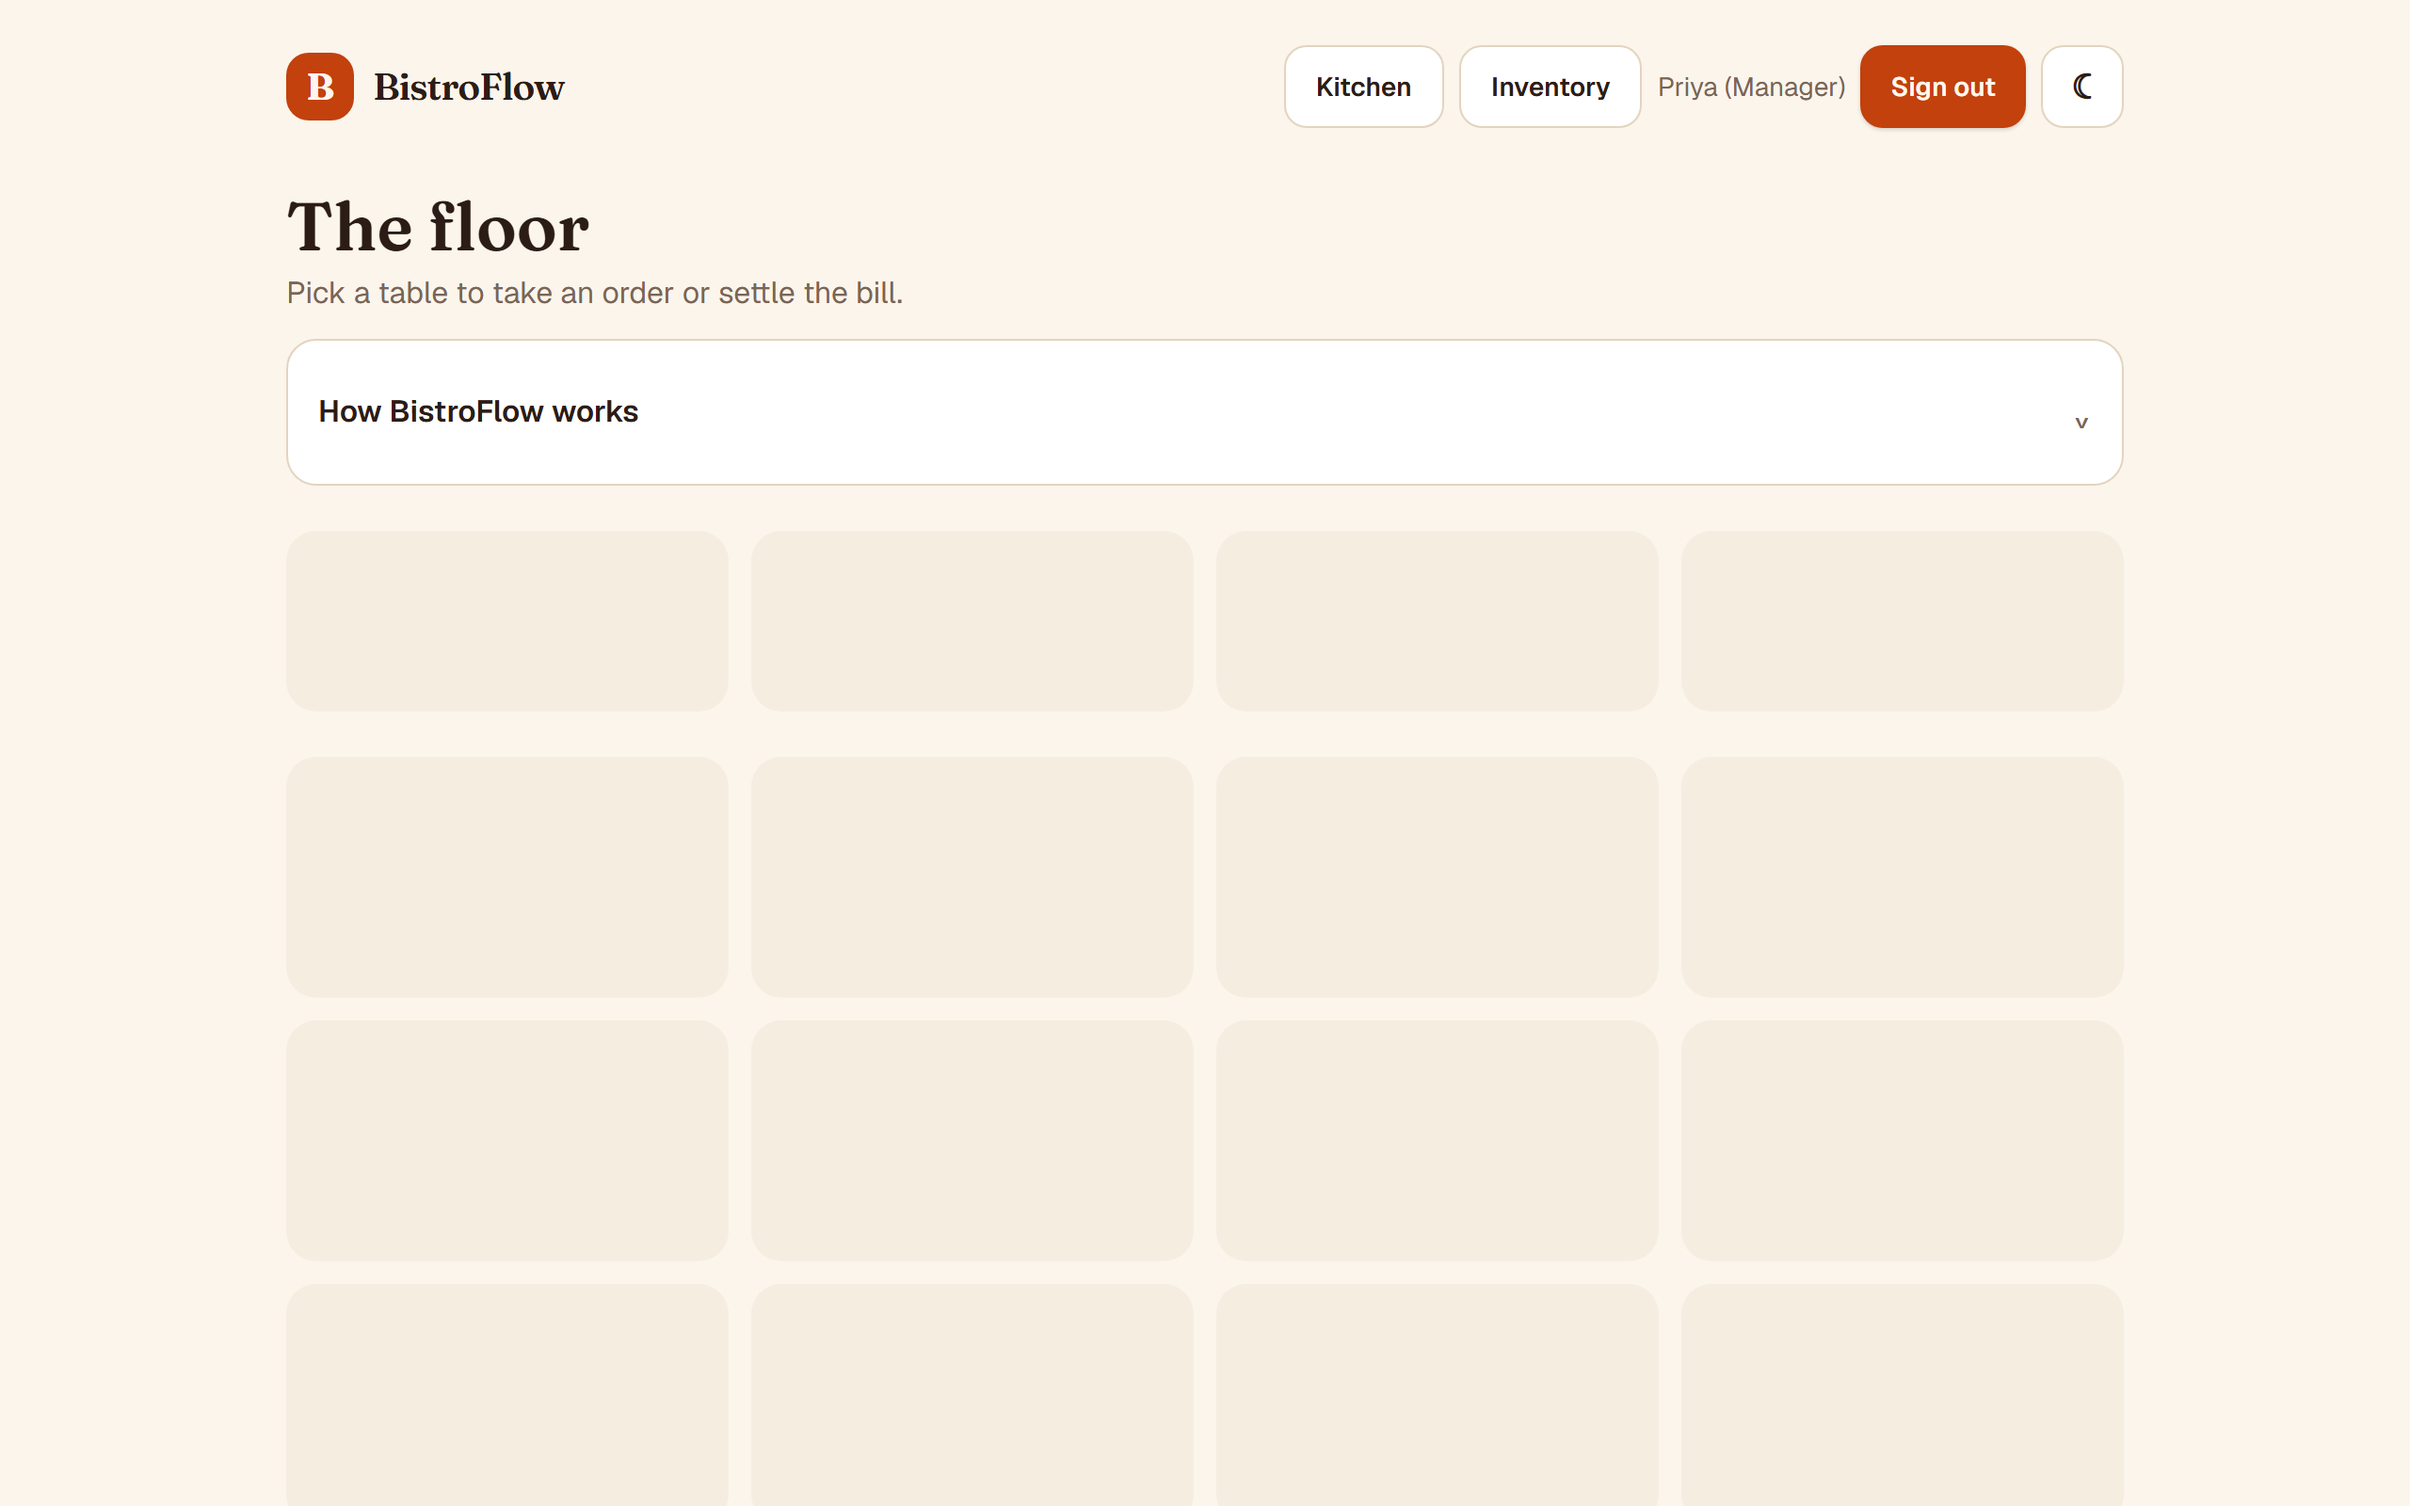
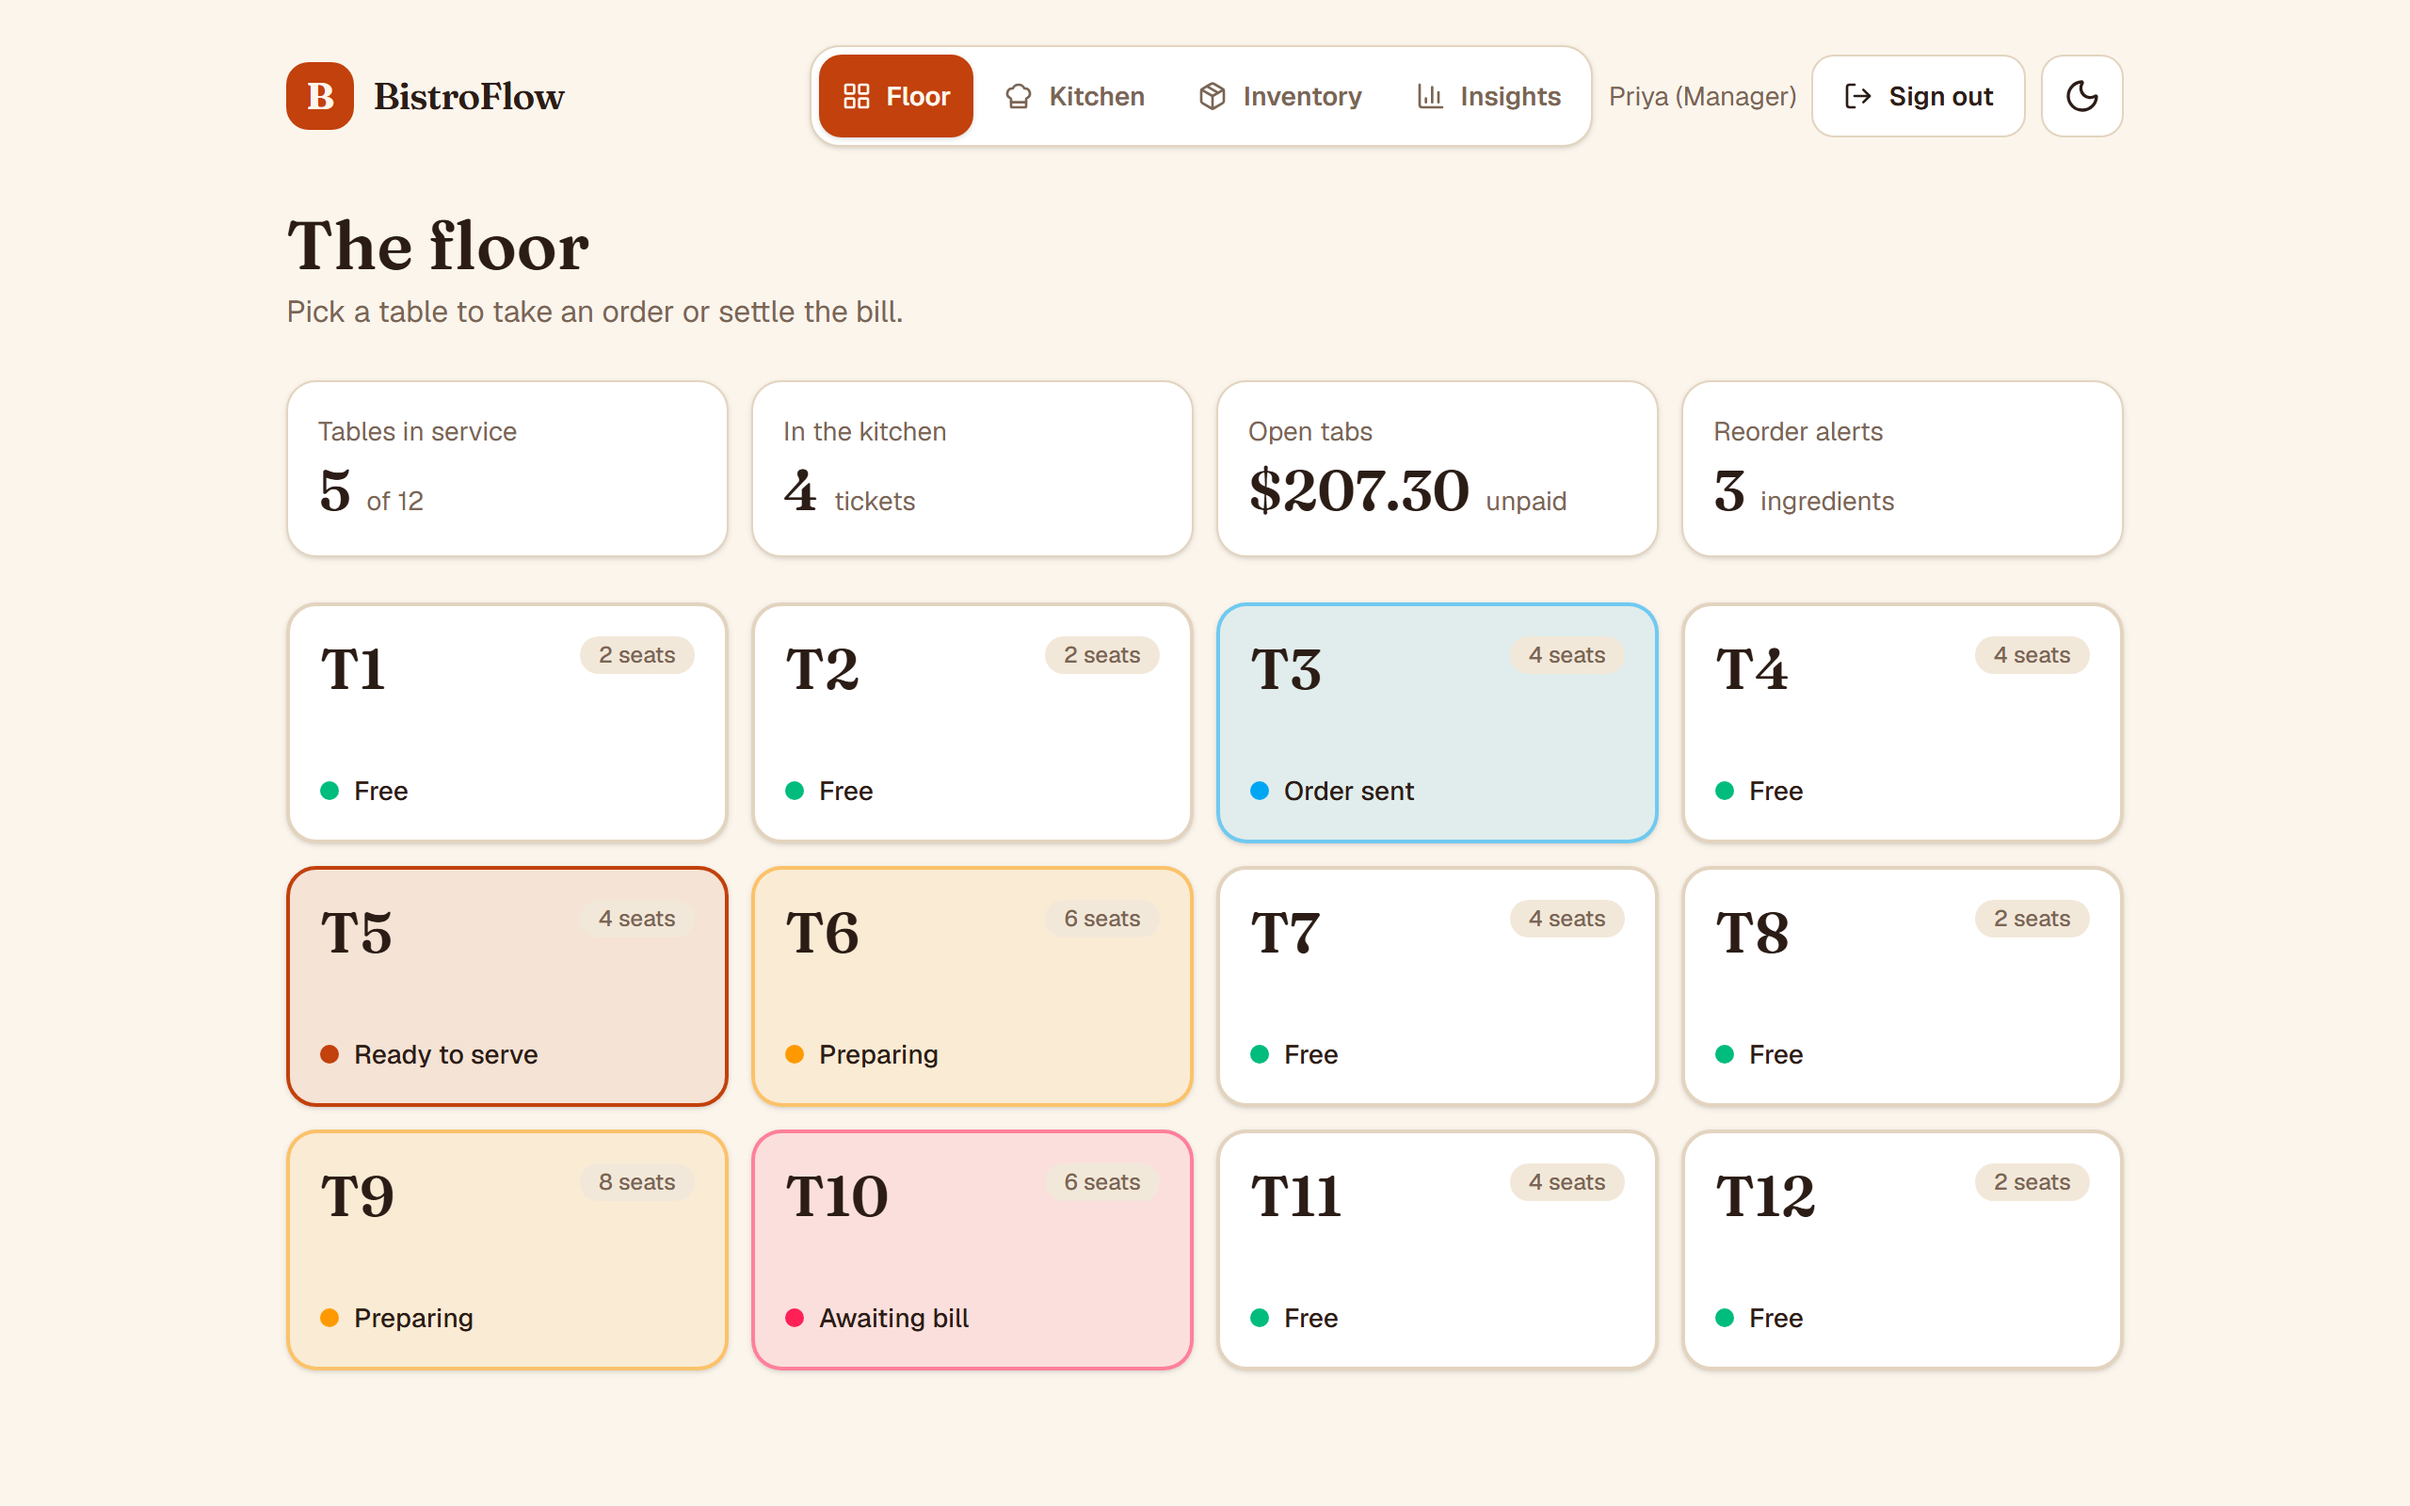
refactor: replace middleware with page-level access guards; role-aware sign-in redirects; docs refresh

diff --git a/app/floor/page.tsx b/app/floor/page.tsx
@@ -3,32 +3,12 @@ import { AppHeader } from "@/components/app-header";
 import { FloorStats, FloorStatsSkeleton } from "@/features/tables/floor-stats";
 import { TableMap, TableMapSkeleton } from "@/features/tables/table-map";
 
-export default function Home() {
+export default function FloorPage() {
   return (
     <main id="main" className="mx-auto w-full max-w-5xl flex-1 p-4 sm:p-6">
       <AppHeader current="/floor" />
       <h1 className="font-display text-3xl font-semibold sm:text-4xl">The floor</h1>
-      <p className="mt-1 text-muted">Pick a table to take an order or settle the bill.</p>
-      <details className="group mb-6 mt-3 rounded-2xl border border-line bg-surface p-4">
-        <summary className="flex min-h-11 list-none items-center justify-between gap-3 font-semibold">
-          How BistroFlow works
-          <span aria-hidden className="text-muted transition-transform group-open:rotate-180">⌄</span>
-        </summary>
-        <ol className="mt-2 grid gap-4 text-sm sm:grid-cols-3">
-          <li>
-            <p className="font-display text-lg font-semibold">1 · Order</p>
-            <p className="text-muted">Waiters take orders at the table. The menu shows what is really in stock, so nobody promises a dish the kitchen can&apos;t make.</p>
-          </li>
-          <li>
-            <p className="font-display text-lg font-semibold">2 · Cook</p>
-            <p className="text-muted">The ticket reaches the kitchen board instantly. The kitchen moves it from New to Preparing to Ready, and the waiter sees it.</p>
-          </li>
-          <li>
-            <p className="font-display text-lg font-semibold">3 · Restock</p>
-            <p className="text-muted">Every order deducts its ingredients automatically. Managers get a reorder list before anything runs out, and one tap records the delivery.</p>
-          </li>
-        </ol>
-      </details>
+      <p className="mb-6 mt-1 text-muted">Pick a table to take an order or settle the bill.</p>
       <Suspense fallback={<FloorStatsSkeleton />}>
         <FloorStats />
       </Suspense>

diff --git a/features/auth/actions.ts b/features/auth/actions.ts
@@ -1,17 +1,30 @@
 "use server";
 
+import { eq } from "drizzle-orm";
 import { AuthError } from "next-auth";
+import { z } from "zod";
 import { signIn, signOut } from "@/auth";
+import { getDb } from "@/db";
+import { staff } from "@/db/schema";
+import { homeFor } from "@/lib/permissions";
 import type { StaffRole } from "@/types";
 import { DEMO_STAFF } from "./demo-staff";
 
+/** Where this person should land after signing in, or null when the id doesn't match anyone. */
+async function homeForStaff(staffId: string): Promise<string | null> {
+  if (!z.string().uuid().safeParse(staffId).success) return null;
+  const [row] = await getDb().select({ role: staff.role }).from(staff).where(eq(staff.id, staffId)).limit(1);
+  return row ? homeFor(row.role) : null;
+}
+
 export async function login(_previous: string | null, formData: FormData): Promise<string | null> {
+  const staffId = String(formData.get("staffId") ?? "");
+  const redirectTo = await homeForStaff(staffId);
+  // An unknown id means the page was loaded before the staff list changed, not that the PIN is wrong.
+  if (!redirectTo) return "This page is out of date. Refresh it and try again.";
+
   try {
-    await signIn("credentials", {
-      staffId: formData.get("staffId"),
-      pin: formData.get("pin"),
-      redirectTo: "/", // the proxy sends kitchen staff on to /kds
-    });
+    await signIn("credentials", { staffId, pin: formData.get("pin"), redirectTo });
     return null;
   } catch (error) {
     if (error instanceof AuthError) return "That PIN is not right. Try again.";
@@ -23,7 +36,7 @@ export async function login(_previous: string | null, formData: FormData): Promi
 export async function demoLogin(role: StaffRole): Promise<void> {
   const member = DEMO_STAFF.find((s) => s.role === role);
   if (!member) return;
-  await signIn("credentials", { staffId: member.id, pin: member.pin, redirectTo: "/" });
+  await signIn("credentials", { staffId: member.id, pin: member.pin, redirectTo: homeFor(role) });
 }
 
 export async function logout(): Promise<void> {

diff --git a/lib/access.ts b/lib/access.ts
@@ -1,0 +1,23 @@
+import { redirect } from "next/navigation";
+import { auth } from "@/auth";
+import type { StaffRole } from "@/types";
+import { canAccessPath, homeFor } from "./permissions";
+
+export interface AccessUser {
+  id: string;
+  name?: string | null;
+  role: StaffRole;
+}
+
+/**
+ * Page-level authorization. Call it first in any server component that reads data: it redirects
+ * to the login screen when signed out, or to the user's own home when their role can't see the page,
+ * and it does so before any query runs. (API handlers do the same check with their own responses.)
+ */
+export async function requireAccess(pathname: string): Promise<AccessUser> {
+  const session = await auth();
+  if (!session) redirect("/login");
+  const { role } = session.user;
+  if (!canAccessPath(role, pathname)) redirect(homeFor(role));
+  return session.user;
+}

diff --git a/app/page.tsx b/app/page.tsx
@@ -1,3 +1,4 @@
+import { Suspense } from "react";
 import { DemoSection } from "@/features/landing/demo-section";
 import { Engineering } from "@/features/landing/engineering";
 import { Features } from "@/features/landing/features";
@@ -6,10 +7,14 @@ import { HowItWorks } from "@/features/landing/how-it-works";
 import { LandingFooter } from "@/features/landing/landing-footer";
 import { LandingNav } from "@/features/landing/landing-nav";
 import { Showcase } from "@/features/landing/showcase";
+import { SignedInRedirect } from "@/features/landing/signed-in-redirect";
 
 export default function LandingPage() {
   return (
     <>
+      <Suspense fallback={null}>
+        <SignedInRedirect />
+      </Suspense>
       <LandingNav />
       <main id="main" className="flex-1">
         <Hero />

diff --git a/app/login/page.tsx b/app/login/page.tsx
@@ -1,15 +1,20 @@
 import type { Metadata } from "next";
+import { redirect } from "next/navigation";
 import { connection } from "next/server";
 import { Suspense } from "react";
+import { auth } from "@/auth";
 import { BrandMark } from "@/components/brand-mark";
 import { ThemeToggle } from "@/components/theme-toggle";
 import { getStaff } from "@/features/auth/queries";
 import { LoginForm } from "@/features/auth/login-form";
+import { homeFor } from "@/lib/permissions";
 
 export const metadata: Metadata = { title: "Sign in | BistroFlow" };
 
 async function StaffLogin() {
   await connection();
+  const session = await auth();
+  if (session) redirect(homeFor(session.user.role)); // already signed in
   return <LoginForm staff={await getStaff()} />;
 }
 

diff --git a/app/kds/page.tsx b/app/kds/page.tsx
@@ -1,16 +1,16 @@
 import type { Metadata } from "next";
-import { redirect } from "next/navigation";
+import { connection } from "next/server";
 import { Suspense } from "react";
-import { auth } from "@/auth";
 import { AppHeader } from "@/components/app-header";
 import { KdsBoard } from "@/features/kds/kds-board";
+import { requireAccess } from "@/lib/access";
 
 export const metadata: Metadata = { title: "Kitchen | BistroFlow" };
 
 async function KdsForRole() {
-  const session = await auth();
-  if (!session) redirect("/login");
-  return <KdsBoard role={session.user.role} />;
+  await connection();
+  const user = await requireAccess("/kds");
+  return <KdsBoard role={user.role} />;
 }
 
 export default function KdsPage() {

diff --git a/components/app-header.tsx b/components/app-header.tsx
@@ -1,5 +1,6 @@
 import { BarChart3, ChefHat, LayoutGrid, LogOut, Package, type LucideIcon } from "lucide-react";
 import Link from "next/link";
+import { connection } from "next/server";
 import { Suspense } from "react";
 import { auth } from "@/auth";
 import { logout } from "@/features/auth/actions";
@@ -15,6 +16,7 @@ const LINKS: { href: string; label: string; icon: LucideIcon }[] = [
 ];
 
 async function SessionNav({ current }: { current: string }) {
+  await connection(); // depends on the visitor's cookies, so never prerendered
   const session = await auth();
   if (!session) return null;
   const { role, name } = session.user;

diff --git a/features/insights/insights-view.tsx b/features/insights/insights-view.tsx
@@ -1,5 +1,6 @@
 import { ArrowDownRight, ArrowUpRight, Minus } from "lucide-react";
 import { connection } from "next/server";
+import { requireAccess } from "@/lib/access";
 import { formatMoney, formatWholeMoney } from "@/lib/format";
 import { BarChart, type Bar } from "./bar-chart";
 import { getInsights } from "./queries";
@@ -60,6 +61,7 @@ function Legend() {
 
 export async function InsightsView() {
   await connection(); // live DB data: render at request time, never at build
+  await requireAccess("/insights");
   const { daily, topDishes, hours } = await getInsights();
 
   const current = totalsFor(daily, "current");

diff --git a/app/pos/[tableId]/page.tsx b/app/pos/[tableId]/page.tsx
@@ -5,9 +5,11 @@ import { z } from "zod";
 import { getTableBill } from "@/features/billing/queries";
 import { getMenu, getTable } from "@/features/menu/queries";
 import { OrderBuilder } from "@/features/pos/order-builder";
+import { requireAccess } from "@/lib/access";
 
 async function TableOrder({ params }: { params: Promise<{ tableId: string }> }) {
   await connection();
+  await requireAccess("/pos");
   const { tableId } = await params;
   if (!z.string().uuid().safeParse(tableId).success) notFound();
   const [table, menu, bill] = await Promise.all([getTable(tableId), getMenu(), getTableBill(tableId)]);

diff --git a/features/inventory/inventory-view.tsx b/features/inventory/inventory-view.tsx
@@ -1,4 +1,5 @@
 import { connection } from "next/server";
+import { requireAccess } from "@/lib/access";
 import { getInventory, type InventoryRow, type StockLevel } from "./queries";
 import { ReorderPanel } from "./reorder-panel";
 
@@ -45,6 +46,7 @@ function StockRow({ item }: { item: InventoryRow }) {
 
 export async function InventoryView() {
   await connection(); // live DB data: render at request time, never at build
+  await requireAccess("/inventory");
   const items = await getInventory();
   const alerts = items.filter((i) => i.level !== "OK");
 

diff --git a/features/tables/table-map.tsx b/features/tables/table-map.tsx
@@ -1,5 +1,6 @@
 import Link from "next/link";
 import { connection } from "next/server";
+import { requireAccess } from "@/lib/access";
 import type { TicketStatus } from "@/types";
 import { getTablesWithState } from "./queries";
 
@@ -14,6 +15,7 @@ const STATE_STYLES: Record<TicketStatus | "FREE", { label: string; dot: string; 
 
 export async function TableMap() {
   await connection(); // live DB data: render at request time, never at build
+  await requireAccess("/floor");
   const tables = await getTablesWithState();
 
   return (

diff --git a/features/landing/signed-in-redirect.tsx b/features/landing/signed-in-redirect.tsx
@@ -1,0 +1,12 @@
+import { redirect } from "next/navigation";
+import { connection } from "next/server";
+import { auth } from "@/auth";
+import { homeFor } from "@/lib/permissions";
+
+/** Sends someone who is already signed in from the landing page straight to their own home. */
+export async function SignedInRedirect() {
+  await connection(); // depends on the visitor's cookies, so never prerendered
+  const session = await auth();
+  if (session) redirect(homeFor(session.user.role));
+  return null;
+}
